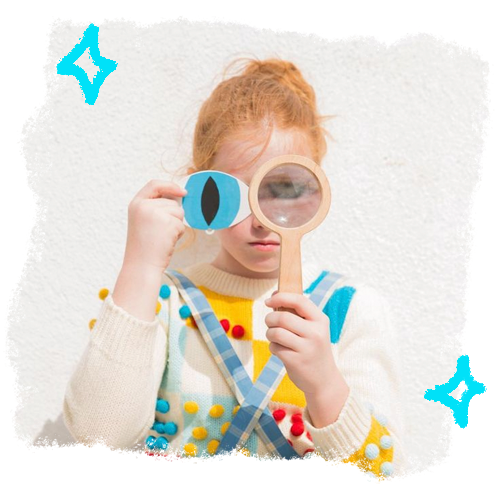
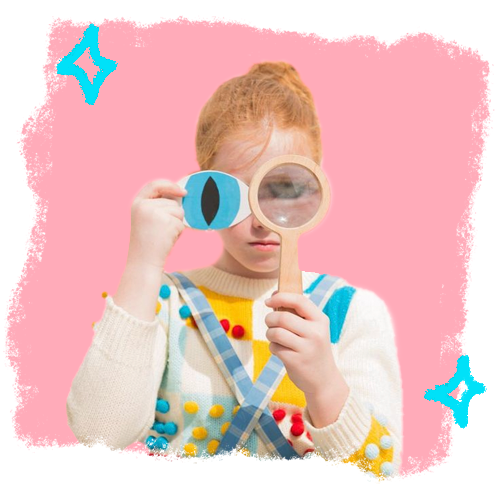
ajustes en fotos, mapa
detalle: ajustar fotos
ajustar mapa berreta
home, foto ciencia: ponerle uno de mis fondos, es la unica que no tiene
nuevo gif

diff --git a/index.html b/index.html
@@ -321,7 +321,7 @@
   <div style="max-width: 1140px; margin: 0 auto; padding: 0 20px;">
     <div class="row align-items-center">
       <div class="col-lg-6 text-center mb-4 mb-lg-0">
-        <img src="swap.png" class="img-fluid img-rounded" alt="Imagen ilustrativa">
+        <img src="swap.gif" class="img-fluid img-rounded" alt="Imagen ilustrativa">
       </div>
       <div class="col-lg-6">
         <h2 class="h2-anybody" style="color: #FFF5F7;">Beneficio PequeSwap para intercambiar tus kits</h2>
